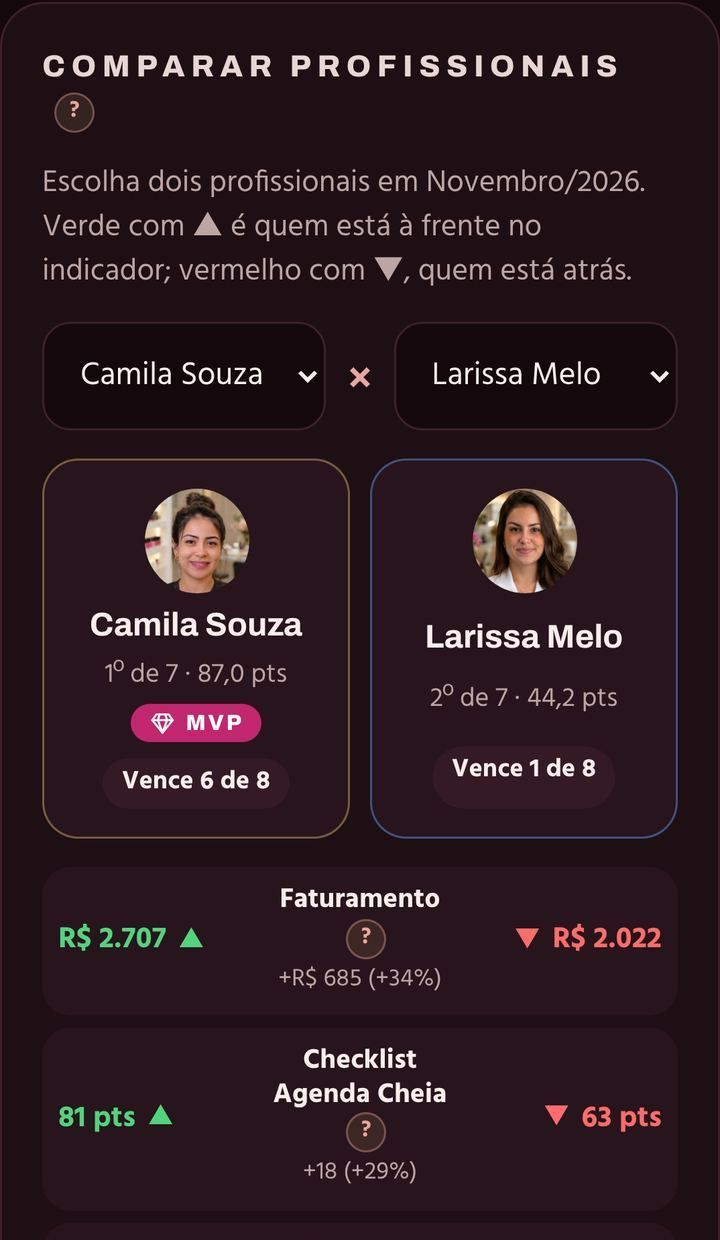
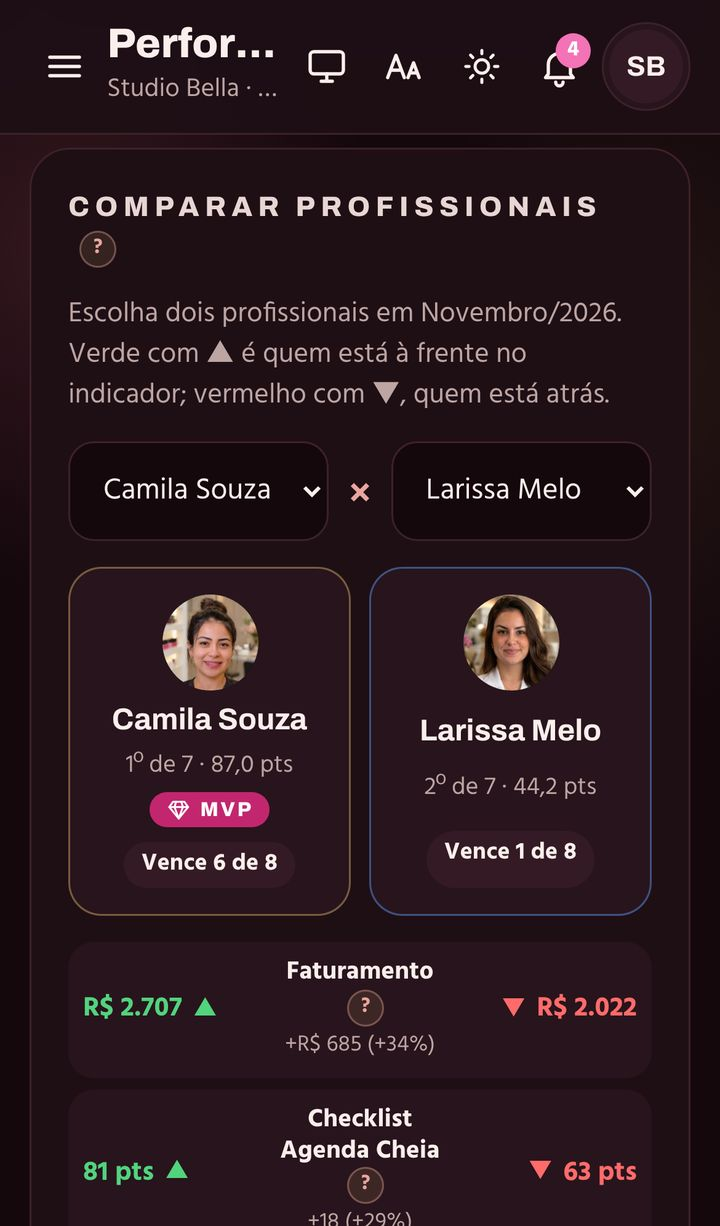
Páginas de vendas: prints do sistema inteiros, sem cortes
Ranking, comparativo e checklist refeitos como telas inteiras do celular (sem nomes e fotos cortados) e mostrados inteiros numa moldura de aparelho na seção Resultados da /oferta; mesmas imagens na /vendas.

Claude-Session: https://claude.ai/code/session_015G7SQDmUBcCzeMmZbP3FEb

diff --git a/oferta/index.html b/oferta/index.html
@@ -107,7 +107,9 @@
   /* ---------- resultados ---------- */
   .res { display: grid; gap: 16px; grid-template-columns: repeat(auto-fit, minmax(min(100%, 300px), 1fr)); }
   .res figure { margin: 0; display: grid; gap: 10px; }
-  .res img { border-radius: 18px; border: 1px solid var(--line); aspect-ratio: 4 / 5; object-fit: cover; object-position: top; width: 100%; }
+  .res figure { justify-items: center; text-align: center; }
+  /* print inteiro do celular, sem recorte, numa moldura de aparelho */
+  .res img { width: min(100%, 290px); height: auto; aspect-ratio: 720 / 1226; object-fit: contain; border-radius: 28px; border: 7px solid #2a2a2e; background: #000; box-shadow: 0 20px 50px rgba(0,0,0,.45); }
   .res figcaption b { display: block; font-family: var(--font-d); }
   .res figcaption span { color: var(--muted); font-size: 0.94rem; }
   .testi { display: grid; gap: 14px; grid-template-columns: repeat(auto-fit, minmax(min(100%, 300px), 1fr)); margin-top: 22px; }
@@ -257,9 +259,9 @@
 <section id="resultados"><div class="wrap">
   <div class="head center reveal"><span class="eyebrow">Resultados</span><h2>O que a sua equipe passa a enxergar todos os dias</h2><p class="lead" style="margin:0 auto">Telas reais do sistema, com profissionais e números de exemplo.</p></div>
   <div class="res">
-    <figure class="reveal"><img data-shot="ranking" alt="Ranking em tempo real" loading="lazy" width="720" height="900"><figcaption><b>Quem está na frente, agora</b><span>Posição, faturamento e pontos de cada profissional, atualizados a cada lançamento.</span></figcaption></figure>
-    <figure class="reveal"><img data-shot="comparativo" alt="Comparativo entre profissionais" loading="lazy" width="720" height="900"><figcaption><b>Onde cada um ganha e perde</b><span>Comparação lado a lado, indicador por indicador, e a evolução de cada um mês a mês.</span></figcaption></figure>
-    <figure class="reveal"><img data-shot="checklist" alt="Checklist com prova" loading="lazy" width="720" height="900"><figcaption><b>Ação diária para encher a agenda</b><span>Cada tarefa com foto ou print como prova, conferida pela gestão.</span></figcaption></figure>
+    <figure class="reveal"><img data-shot="ranking" alt="Ranking em tempo real" loading="lazy" width="720" height="1226"><figcaption><b>Quem está na frente, agora</b><span>Posição, faturamento e pontos de cada profissional, atualizados a cada lançamento.</span></figcaption></figure>
+    <figure class="reveal"><img data-shot="comparativo" alt="Comparativo entre profissionais" loading="lazy" width="720" height="1226"><figcaption><b>Onde cada um ganha e perde</b><span>Comparação lado a lado, indicador por indicador, e a evolução de cada um mês a mês.</span></figcaption></figure>
+    <figure class="reveal"><img data-shot="checklist" alt="Checklist com prova" loading="lazy" width="720" height="1226"><figcaption><b>Ação diária para encher a agenda</b><span>Cada tarefa com foto ou print como prova, conferida pela gestão.</span></figcaption></figure>
   </div>
   <div class="testi" id="testi" hidden></div>
 </div></section>

diff --git a/vendas/index.html b/vendas/index.html
@@ -256,8 +256,8 @@
 <section id="telas"><div class="wrap">
   <div class="head reveal"><span class="eyebrow">Veja por dentro</span><h2>Telas reais do sistema</h2><p class="lead">Imagens do modo apresentação, com profissionais e números fictícios.</p></div>
   <div class="shots">
-    <div class="shot reveal"><div class="txt"><span class="eyebrow">Ranking em tempo real</span><h3>Todo mundo sabe onde está, agora</h3><p data-t="s1">Faturamento, pontos e quantos indicadores cada um lidera. Quando alguém ultrapassa, a equipe toda fica sabendo.</p></div><img class="ph" data-shot="ranking" alt="Ranking em tempo real" loading="lazy" width="720" height="1080"></div>
-    <div class="shot rev reveal"><div class="txt"><span class="eyebrow">Comparar profissionais</span><h3>Lado a lado, indicador por indicador</h3><p>Verde para quem está à frente, vermelho para quem está atrás, com a diferença em valor e em porcentagem. E a evolução de cada um contra ele mesmo.</p></div><img class="ph" data-shot="comparativo" alt="Comparativo entre profissionais" loading="lazy" width="720" height="1240"></div>
+    <div class="shot reveal"><div class="txt"><span class="eyebrow">Ranking em tempo real</span><h3>Todo mundo sabe onde está, agora</h3><p data-t="s1">Faturamento, pontos e quantos indicadores cada um lidera. Quando alguém ultrapassa, a equipe toda fica sabendo.</p></div><img class="ph" data-shot="ranking" alt="Ranking em tempo real" loading="lazy" width="720" height="1226"></div>
+    <div class="shot rev reveal"><div class="txt"><span class="eyebrow">Comparar profissionais</span><h3>Lado a lado, indicador por indicador</h3><p>Verde para quem está à frente, vermelho para quem está atrás, com a diferença em valor e em porcentagem. E a evolução de cada um contra ele mesmo.</p></div><img class="ph" data-shot="comparativo" alt="Comparativo entre profissionais" loading="lazy" width="720" height="1226"></div>
     <div class="shot reveal"><div class="txt"><span class="eyebrow">Checklist Agenda Cheia</span><h3>Meta vira tarefa do dia, com prova</h3><p>Stories, abordagens, convites e avaliações no Google. Cada ação precisa de foto ou print, e só conta depois que a gestão aprova.</p></div><img class="ph" data-shot="checklist" alt="Checklist Agenda Cheia" loading="lazy" width="720" height="1226"></div>
     <div class="shot wide reveal"><div class="txt"><span class="eyebrow">Tela da loja</span><h3 data-t="tvH">O placar na TV da barbearia</h3><p>Pódio, líderes de cada indicador e quanto falta para subir, trocando sozinho a cada 30 segundos, com sons.</p></div><img data-shot="tv" alt="Tela da loja na TV" loading="lazy" width="1280" height="720"></div>
     <div class="shot rev wide reveal"><div class="txt"><span class="eyebrow">Fechamento do mês</span><h3>A revelação que a equipe espera</h3><p>Apresentação animada do último ao 1º lugar. O pódio pode ficar em segredo nos últimos dias e ser revelado ao vivo, no celular de todos.</p></div><img data-shot="fechamento" alt="Revelação do 1º lugar no Fechamento do mês" loading="lazy" width="1280" height="720"></div>
